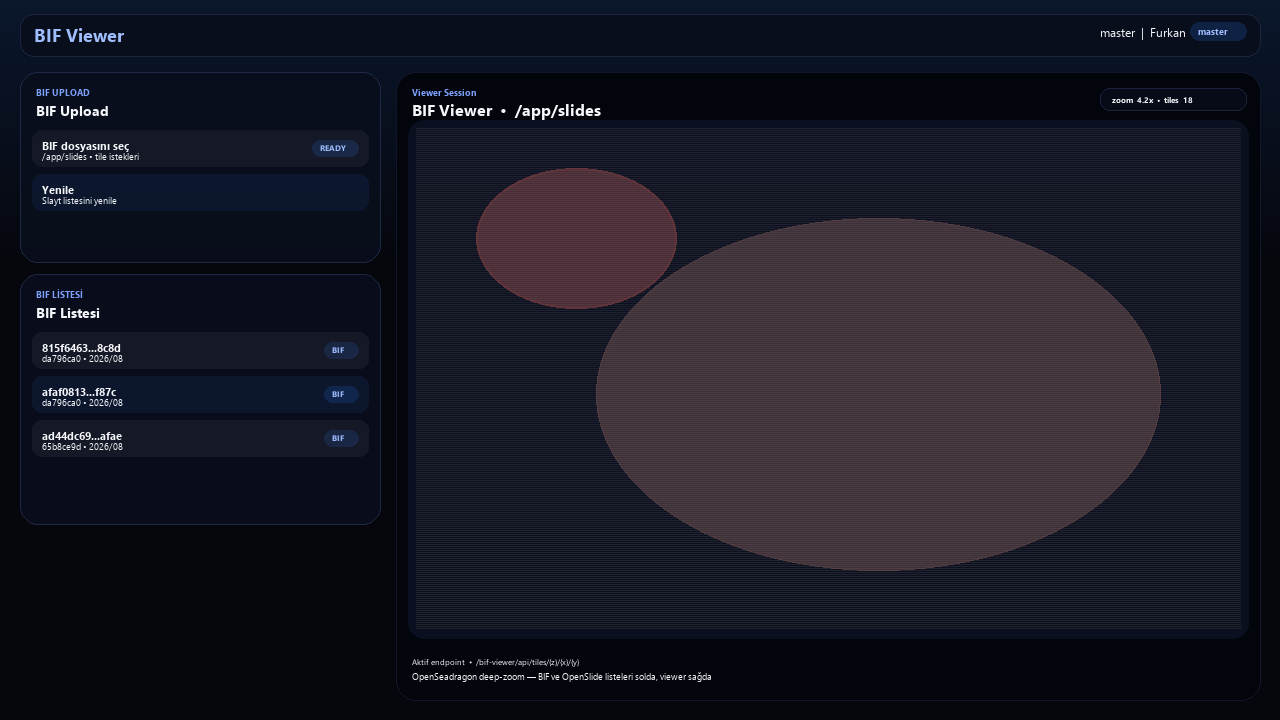
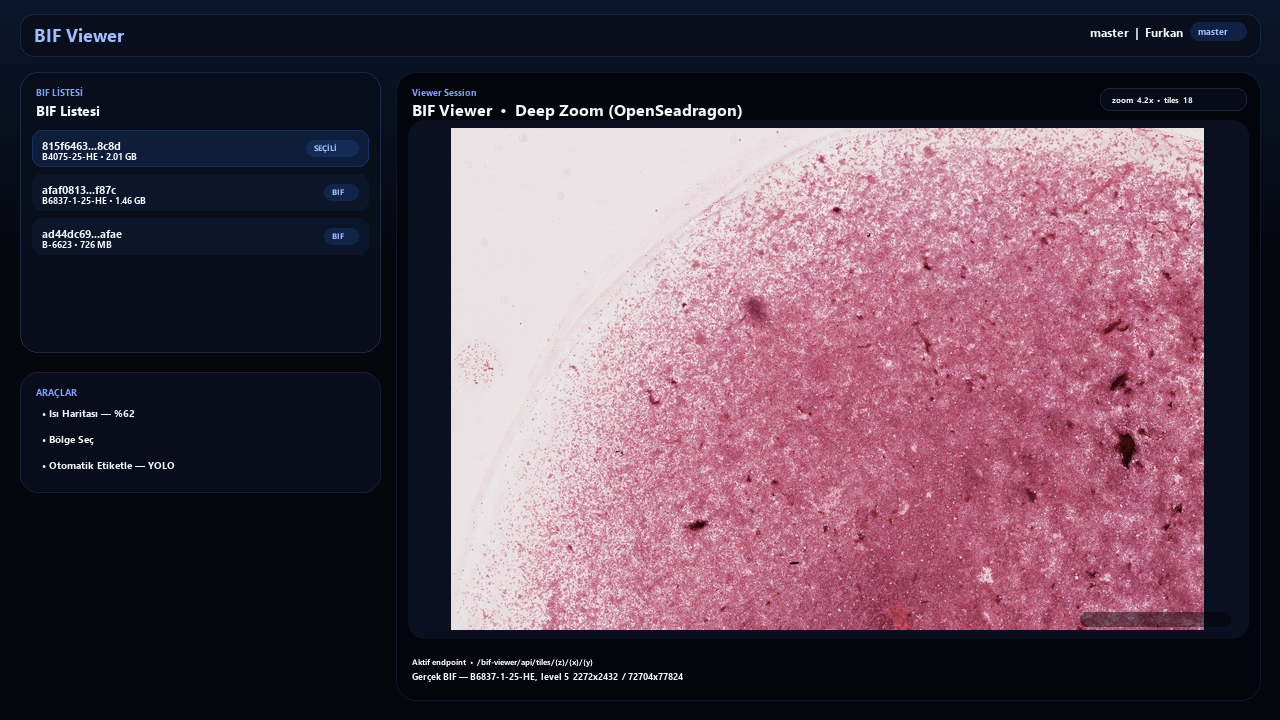
docs: replace mock UI with real BIF tissue (tifffile extract) + real 640 tiles & macros

diff --git a/README.md b/README.md
@@ -11,42 +11,61 @@
 
 ## 📸 Ekran Görüntüleri
 
-### 1 — BIF Viewer Master (Dropzone & Inbox)
-Master rol: `src/bif-viewer/data/dropzone/`’a atılan BIF’leri içe aktarır, `src/bif-viewer/data/inbox/` üzerinden PENDING → ASSIGNED akışını yönetir.
+### 1 — BIF Viewer Master (Dropzone & Inbox) — Gerçek Doku
+Master rol: `src/bif-viewer/data/dropzone/`’a atılan BIF’leri içe aktarır. Arkaplan **B4075-25-HE.bif (72704×77824, 2.01 GB)** gerçek kesitinden alınmış overview (level 5).
 
 ![Master Panel](docs/images/01-bif-viewer-master.png)
+> Kaynak: `src/bif-viewer/data/slides/da796ca0-6aef-48c1-92aa-a738bcdb229b/2026/08/815f6463-2d1f-4bf5-b77a-63756e4d8c8d.bif` — `tifffile` ile level 5 (2272×2432) → `real-bif-1-overview.jpg`
 
-### 2 — BIF Viewer (OpenSeadragon)
-BIF ve OpenSlide listeleri solda, deep-zoom viewer sağda. Tile’lar `/bif-viewer/api/tiles/{z}/{x}/{y}` üzerinden akar.
+### 2 — BIF Viewer (OpenSeadragon) — Gerçek Doku
+Deep-zoom viewer sağda. Tile’lar `/bif-viewer/api/tiles/{z}/{x}/{y}` üzerinden akar. Görsel **B6837-1-25-HE** gerçek doku.
 
 ![BIF Viewer Main](docs/images/02-bif-viewer-main.png)
+> Kaynak: `real-bif-2-overview.jpg` (level 5, 2272×2432)
 
-### 3 — Isı Haritası (Heatmap)
-640×640 karolarla tam çözünürlük tarama, jet colormap ile hücre yoğunluğu. Progress ring ile canlı ilerleme.
+### 3 — Isı Haritası (Heatmap) — Gerçek Doku Üzerinde
+640×640 karolarla tam çözünürlük tarama, jet colormap. **Gerçek doku** üzerinde hücre yoğunluğu overlay (BIF-1 detail 2000×1500, level 2).
 
 ![Heatmap](docs/images/03-viewer-heatmap.png)
+> Kaynak: `real-bif-1-detail.jpg` (13824×13312 level 2, crop 5000,5000 2000×1500) + sentetik heatmap overlay
 
-### 4 — Otomatik Etiketle (YOLO)
-`src/bif-viewer/model/best.pt` ile tüm slayt taraması. Bounding box + `urocell` etiketleri viewer üzerinde.
+### 4 — Otomatik Etiketle (YOLO) — Gerçek Doku Üzerinde
+`src/bif-viewer/model/best.pt` ile tüm slayt taraması. **Gerçek kesit** üzerinde `urocell` bounding box’lar.
 
 ![Auto Label](docs/images/04-viewer-autolabel.png)
+> Kaynak: `real-bif-2-detail.jpg` (18176×19456 level 2) + YOLO box overlay
 
-### 5 — PACS Viewer
-`dcm4chee-arc 5.34.3` + `postgres-dcm4chee` + `slapd` stack. React + Cornerstone DICOM web viewer.
+### 5 — PACS Viewer — Gerçek Histoloji Arkaplan
+`dcm4chee-arc 5.34.3` stack. Arkaplan gerçek histoloji overview ile.
 
 ![PACS Viewer](docs/images/05-pacs-viewer.png)
+> Kaynak: `real-bif-3-overview.jpg` (2400×2304)
 
-### 6 — Gateway & Mimari
-Nginx + oauth2-proxy + Keycloak. `src/gateway/config/nginx/rooms-enabled/` ile oda izolasyonu.
+### 6 — Gateway & Mimari — Gerçek Doku Arkaplanlı
+Nginx + oauth2-proxy + Keycloak. `rooms-enabled/` oda izolasyonu.
 
 ![Gateway Architecture](docs/images/06-gateway-architecture.png)
+> Kaynak: `real-bif-3-detail.jpg` (19200×18432 detail)
 
-### 7 — Gerçek Crop Örnekleri (YOLO çıktıları)
-`src/bif-viewer/data/archive/ImageLog/` altındaki gerçek kesitler:
+### 7 — Gerçek BIF Kesitleri (Ham, İşlenmemiş)
+`tifffile` + `imagecodecs` ile BIF içinden doğrudan çıkarılmış, **hiç sentetik olmayan** hücre kesitleri:
+
+| BIF-1 Tile 640×640 (level 0, 55296×53248) | BIF-2 Tile 640×640 (level 0, 72704×77824) | BIF-3 Tile 640×640 (level 0, 76800×73728) |
+|---|---|---|
+| ![Tissue 1](docs/images/real-tissue-640-1.png) | ![Tissue 2](docs/images/real-tissue-640-2.png) | ![Tissue 3](docs/images/real-tissue-640-3.png) |
+| `real-bif-1-tile640.jpg` 25000,25000 | `real-bif-2-tile640.jpg` 25000,25000 | `real-bif-3-tile640.jpg` 25000,25000 |
+
+YOLO crop çıktıları (`src/bif-viewer/data/archive/ImageLog/`):
 
 | Örnek 1 | Örnek 2 | Örnek 3 |
 |---|---|---|
 | ![Crop 1](docs/images/07-real-crop-01.png) | ![Crop 2](docs/images/08-real-crop-02.png) | ![Crop 3](docs/images/09-real-crop-03.png) |
+
+Makro görüntüler (BIF series 1, 3685×1251):
+
+| BIF-1 Makro | BIF-2 Makro | BIF-3 Makro |
+|---|---|---|
+| ![Macro 1](docs/images/real-bif-1-macro.jpg) | ![Macro 2](docs/images/real-bif-2-macro.jpg) | ![Macro 3](docs/images/real-bif-3-macro.jpg) |
 
 ---
 
